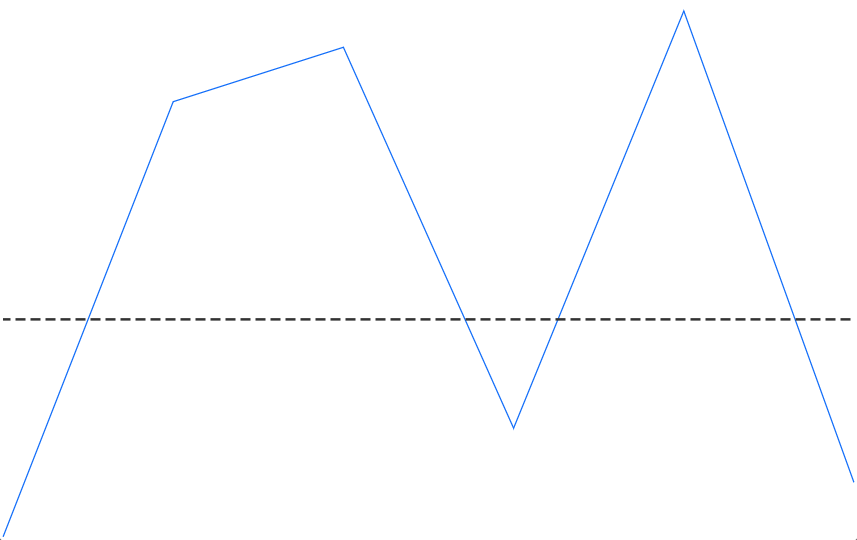
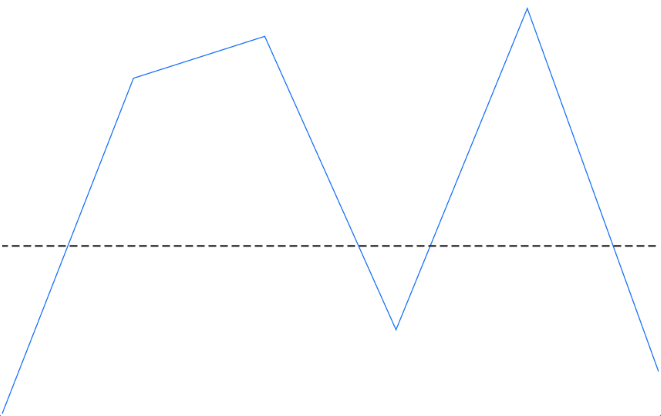
Updated demo with proper image size

diff --git a/maui-toolkit/Spark-Charts/sparkchart-axis.md b/maui-toolkit/Spark-Charts/sparkchart-axis.md
@@ -40,7 +40,7 @@ var chart = new SfSparkLineChart
 
 {% endtabs %}
 
-![Axis in .NET MAUI Spark Line](sparkchart_axis_line_images\Default_axis_line.png)
+![Axis in .NET MAUI Spark Line](sparkchart_axis_line_images\default_axis_line.png)
 
 ## Axis origin
 
@@ -111,5 +111,4 @@ chart.AxisLineStyle = new SparkChartLineStyle
 ![Axis customization in .NET MAUI Spark Line](sparkchart_axis_line_images/axis_customization.png)
 
 
->**NOTE**
-Axis feature is applicable for all the [SfSparkChart](https://help.syncfusion.com/cr/maui-toolkit/Syncfusion.Maui.Toolkit.SparkCharts.SfSparkChart.html) types except [SfSparkWinLossChart](https://help.syncfusion.com/cr/maui-toolkit/Syncfusion.Maui.Toolkit.SparkCharts.SfSparkWinLossChart.html).
+N> Axis feature is applicable for all the [SfSparkChart](https://help.syncfusion.com/cr/maui-toolkit/Syncfusion.Maui.Toolkit.SparkCharts.SfSparkChart.html) types except [SfSparkWinLossChart](https://help.syncfusion.com/cr/maui-toolkit/Syncfusion.Maui.Toolkit.SparkCharts.SfSparkWinLossChart.html).
